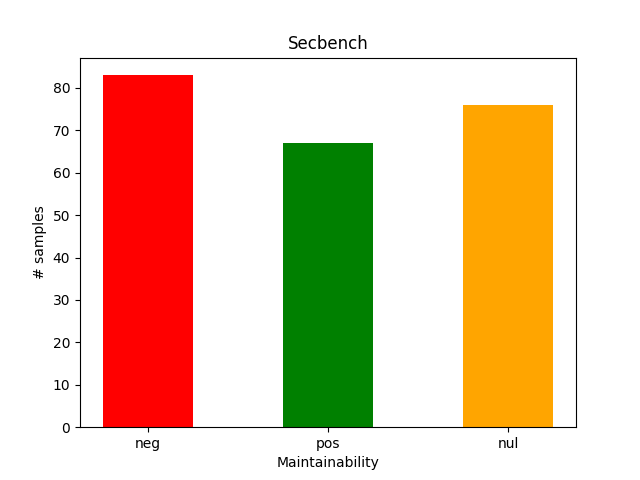
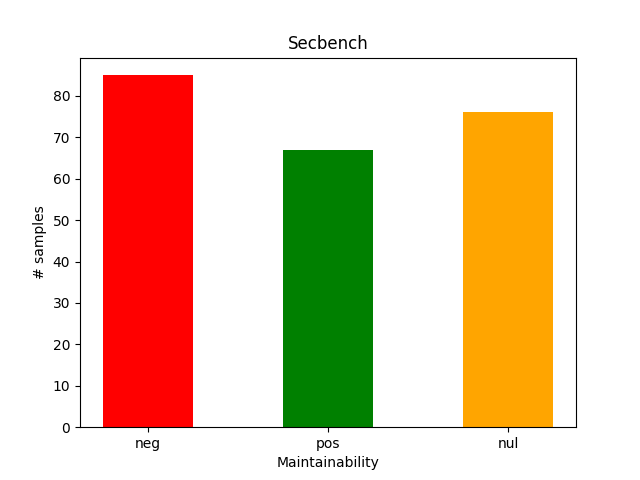
delete single commits - problems

diff --git a/scripts/get_maintainability.py b/scripts/get_maintainability.py
@@ -28,6 +28,13 @@ def pair_info(file):
 def clean_plot():
     plt.gcf().clear()
 
+# TODO: IMPROVE
+def count(t_id, id, total, lang, pattern, year, l, p, y):
+    total[t_id] += 1
+    lang[l][id] += 1
+    pattern[p][id] += 1
+    year[y][id] += 1
+
 def total_main_barchart(total, graphics):
     d = {'count' : pd.Series([total['neg'], total['pos'], total['nul']]),
         'type' : pd.Series(['neg', 'pos', 'nul'])}
@@ -81,7 +88,19 @@ def main(cache, results, graphics, dataset):
         lang = {}
         pattern = {}
         year = {}
-        
+
+        i = 0
+        while i < len_eval:
+            owner, proj, sha = get_key(keys,i).split('/')
+            owner_p, proj_p, sha_p = get_key(keys,i+1).split('/')
+
+            if owner != owner_p or proj != proj_p:
+                print(get_key(keys,i),'deleted...')
+                del CACHE.data[get_key(keys,i)]
+                len_eval-=1
+            else:
+                i+=2        
+
         for i in range(0, len_eval,2):
 
             owner, proj, sha = get_key(keys,i).split('/')
@@ -96,36 +115,29 @@ def main(cache, results, graphics, dataset):
             main = bch.compute_maintainability_score(info_f)
             main_p = bch.compute_maintainability_score(info_p)
             main_d = main - main_p
-            
+                
             writer.writerow({'owner' : owner, 'project': proj,
-                            'sha': sha, 'sha-p': sha_p,
-                            'main(sha)': main,
-                            'main(sha-p)': main_p,
-                            'main(diff)': main_d
-                            })
+                                'sha': sha, 'sha-p': sha_p,
+                                'main(sha)': main,
+                                'main(sha-p)': main_p,
+                                'main(diff)': main_d
+                                })
 
+            # TODO: IMPROVE
             key = set_key(owner, proj, sha, sha_p)
             l, p, y = data[key]
             lang = check_if_in(l, lang)
             pattern = check_if_in(p, pattern)
             year = check_if_in(y, year)
 
+            # TODO: IMPROVE
             if main_d < 0:
-                total['neg'] += 1
-                lang[l][0] += 1
-                pattern[p][0] += 1
-                year[y][0] += 1
+                count('neg', 0, total, lang, pattern, year, l, p, y)
             elif main_d > 0:
-                total['pos'] += 1
-                lang[l][1] += 1
-                pattern[p][1] += 1
-                year[y][1] += 1
+                count('pos', 1, total, lang, pattern, year, l, p, y)
             else:
-                total['nul'] += 1
-                lang[l][2] += 1
-                pattern[p][2] += 1
-                year[y][2] += 1
-        
+                count('nul', 2, total, lang, pattern, year, l, p, y)
+            
         total_main_barchart(total, graphics)
         clean_plot()
         dic_barchart(pattern, graphics, 'Maintainability per pattern', 'patterns.png')
@@ -134,6 +146,8 @@ def main(cache, results, graphics, dataset):
         clean_plot()
         year_ord = collections.OrderedDict(sorted(year.items()))
         dic_barchart(year_ord, graphics, 'Maintainability per year', 'year.png')
+
+        print(total, 'total=', sum([value for key,value in total.items()]))
 
 
 if __name__ == "__main__":
